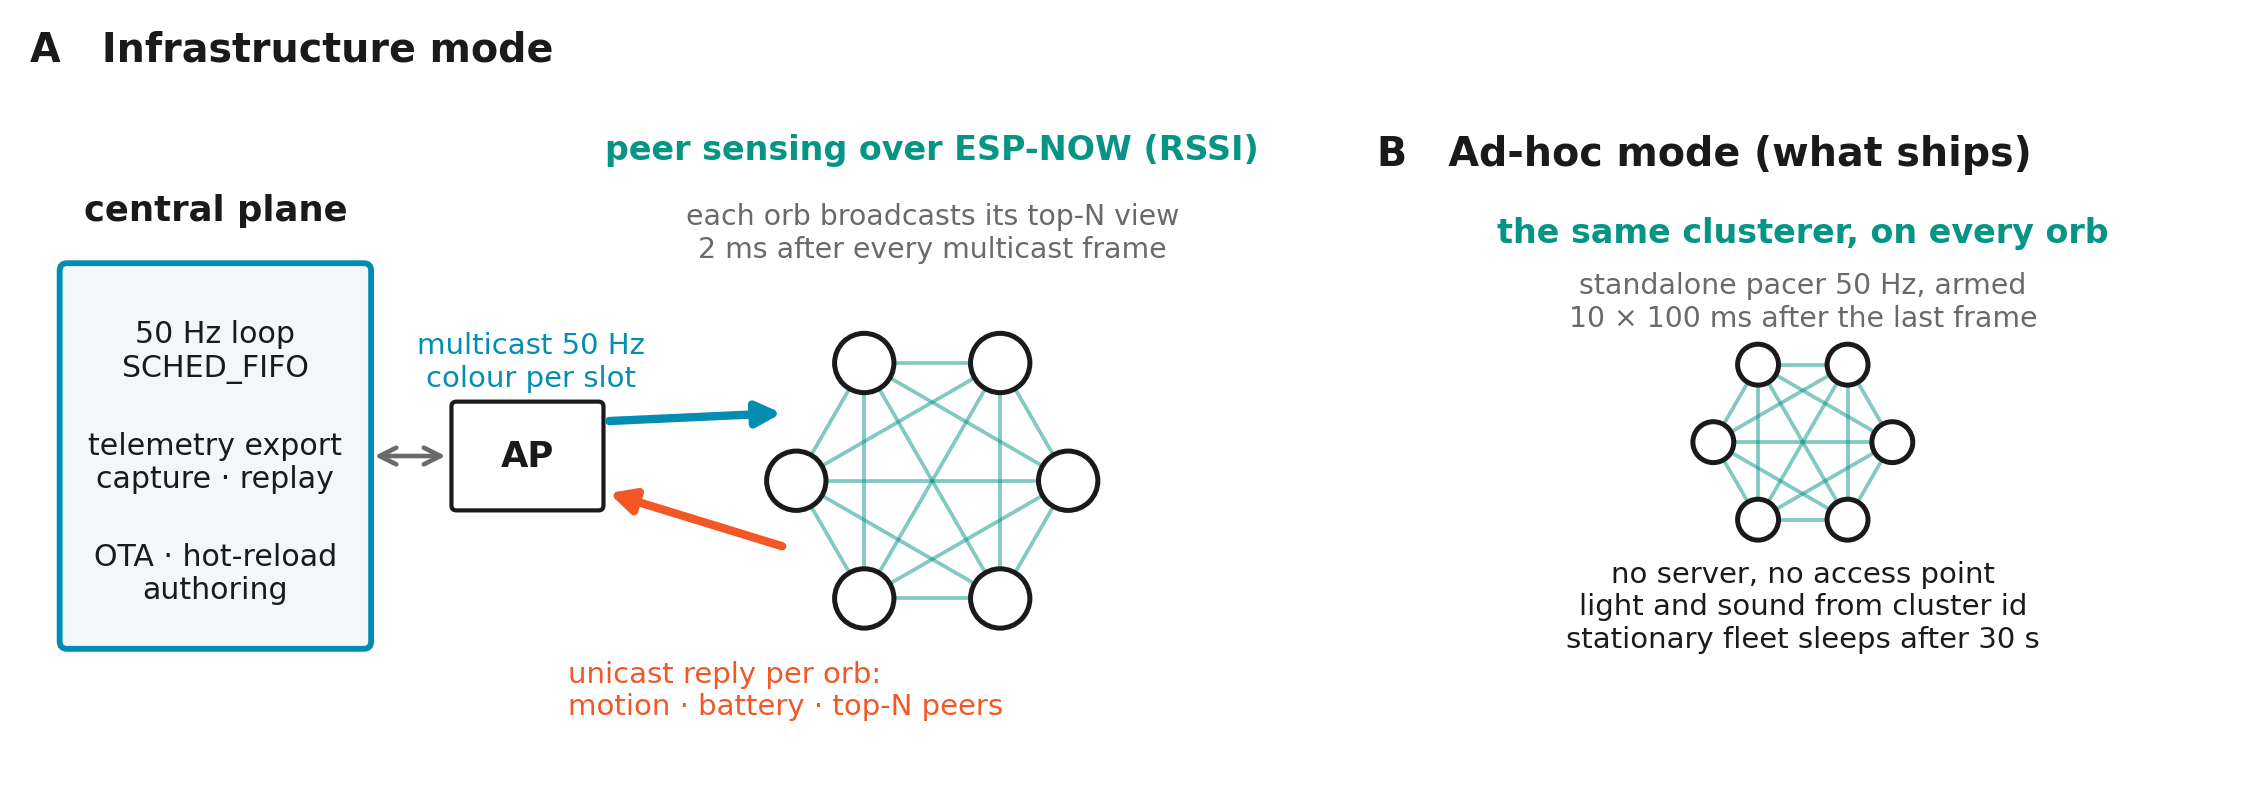
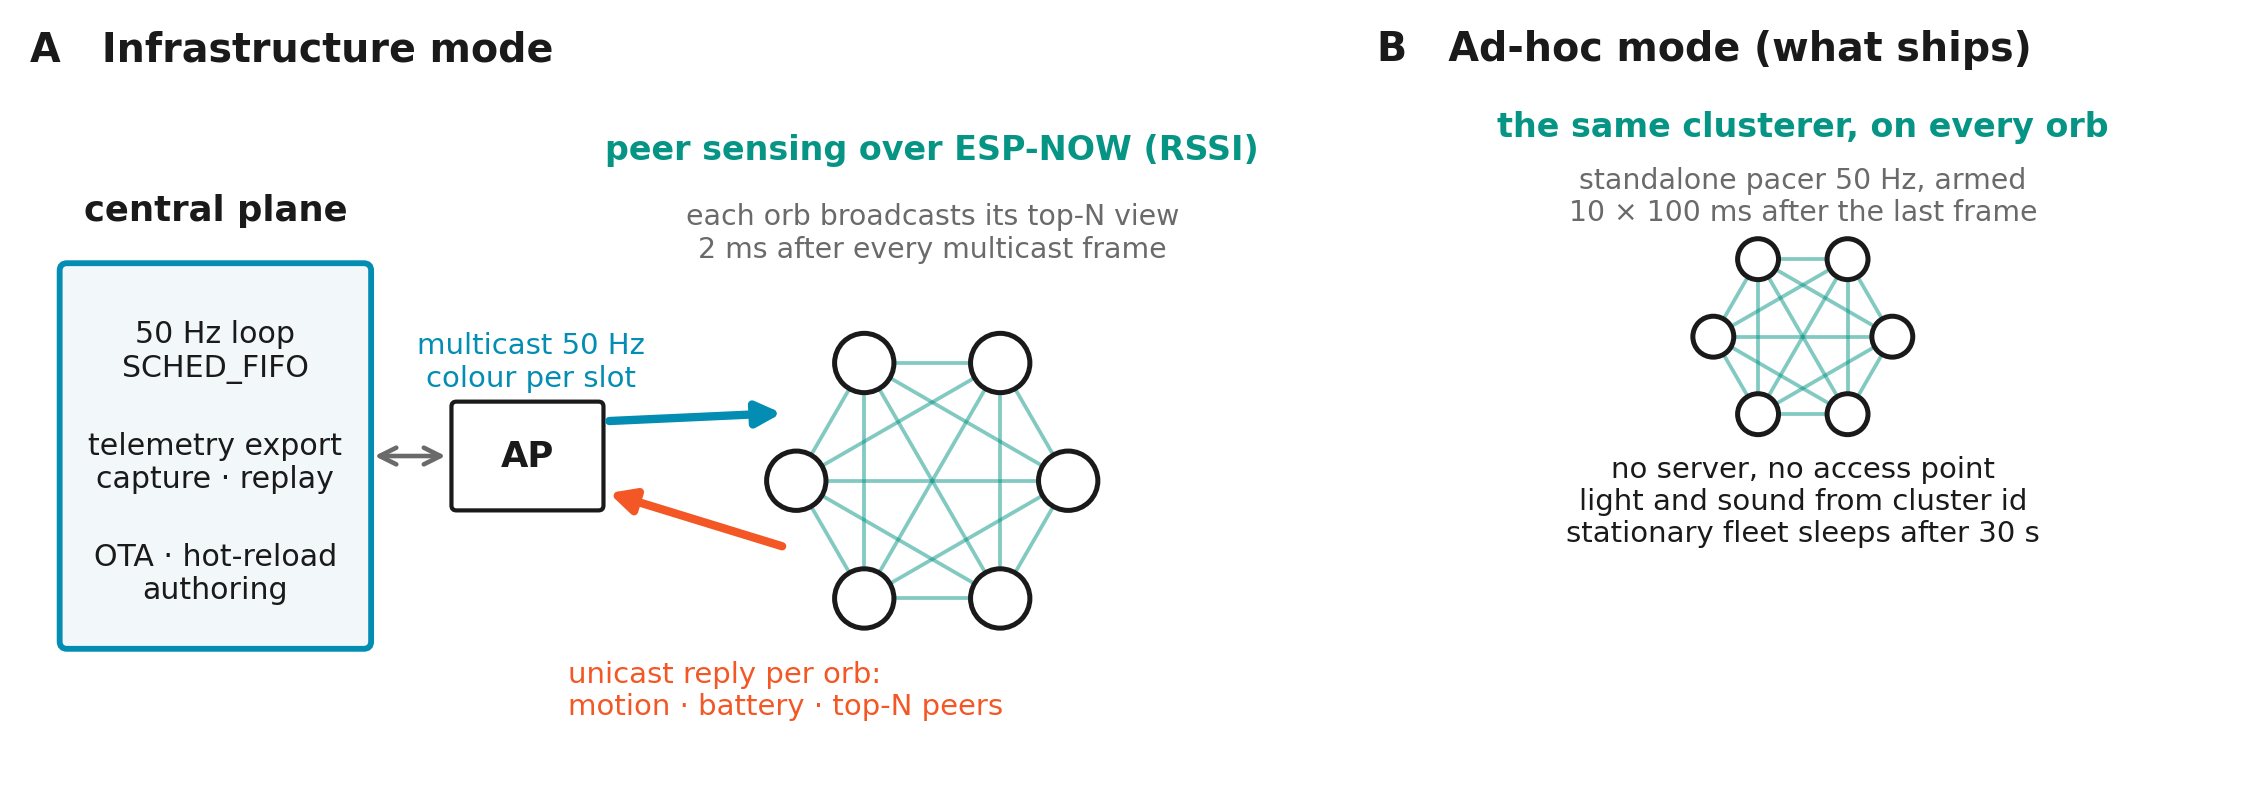
figures: align the A/B panel titles in the architecture diagram
Both panels set aspect "equal" with width_ratios [1.45, 1]. Equal aspect shrinks
each axes box to the data ratio and then CENTRES the result in its gridspec slot,
so the narrower right panel ended up shorter and lower and its "B" title sat ~90
px below "A" -- level with panel A's subheading rather than with its title.

Anchoring both boxes north pins them to the top of their slots, so the two panel
titles share a line.

Claude-Session: https://claude.ai/code/session_0199TePCg5kTEVBqaP392G4K

Changed region(s): [[0.589, 0.1509, 0.93, 0.8151], [0.589, 0.0302, 0.899, 0.0906]]

diff --git a/tools/make_calibration_figs.py b/tools/make_calibration_figs.py
@@ -801,6 +801,10 @@ def fig_architecture():
             ax.add_patch(mp.Circle((x, y), nr, fc="white", ec=INK, lw=1.2, zorder=3))
     for ax in (a, b):
         ax.set_xlim(0, 10); ax.set_ylim(0, 5.5); ax.set_aspect("equal"); ax.axis("off")
+        # Equal aspect shrinks each axes box to the data ratio and CENTRES it in its
+        # gridspec slot, so the narrower right panel sits lower and its "B" title
+        # drops below "A". Anchor both to the top so the titles share a line.
+        ax.set_anchor("N")
     # ---- A: infrastructure mode
     a.add_patch(mp.FancyBboxPatch((0.3, 1.0), 2.4, 3.0, boxstyle="round,pad=0.06", fc="#F2F7FA", ec=SKY, lw=1.4, zorder=2))
     a.text(1.5, 4.35, "central plane", ha="center", va="bottom", fontsize=8.5, fontweight="bold", color=INK)
